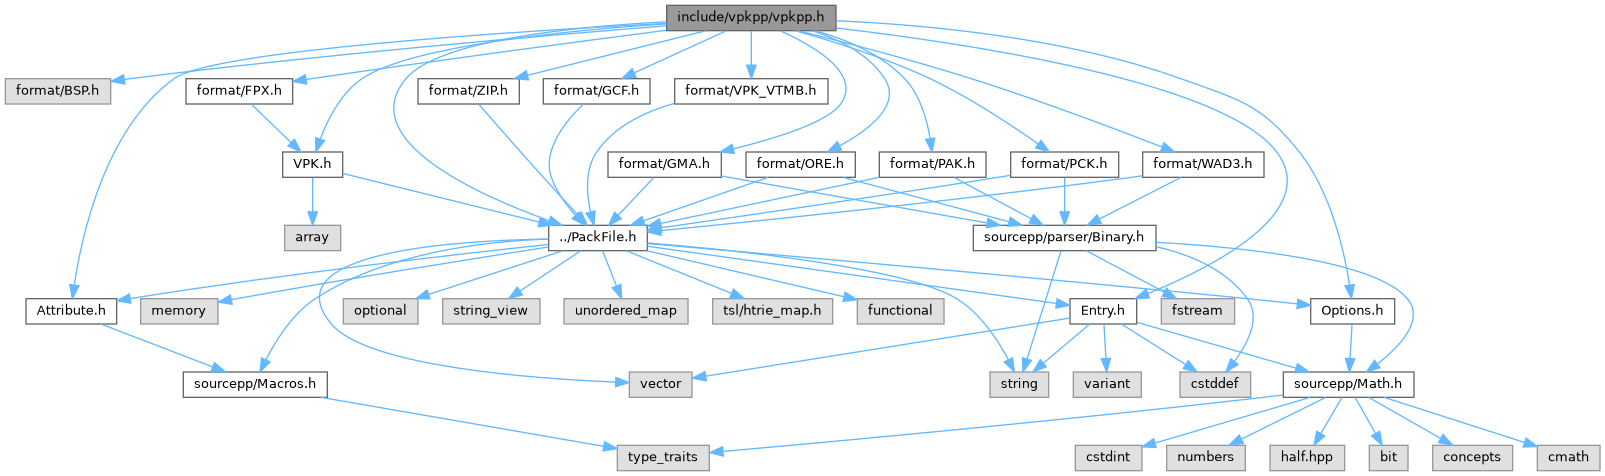
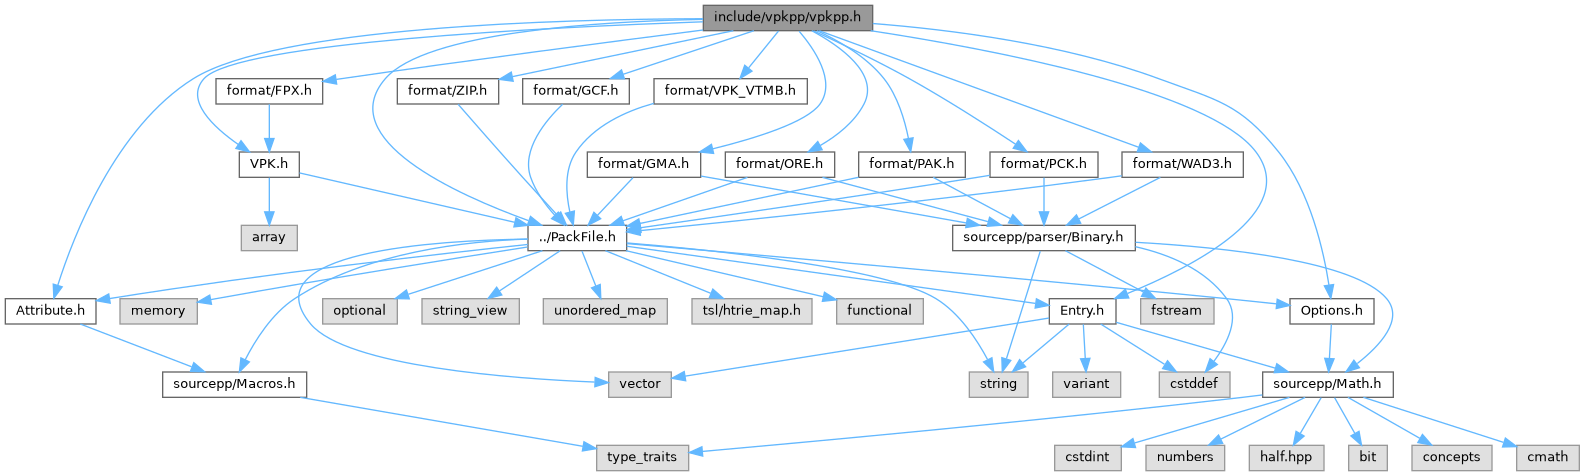
Deploying to docs from @ craftablescience/sourcepp@24a7cea87c79136fafd3792c9ff9c30157f239c5 🚀

diff --git a/d6/dae/vpkpp_8h.html b/d6/dae/vpkpp_8h.html
@@ -126,8 +126,7 @@ $(document).ready(function(){initNavTree('d6/dae/vpkpp_8h.html','../../'); initR
   <div class="headertitle"><div class="title">vpkpp.h File Reference</div></div>
 </div><!--header-->
 <div class="contents">
-<div class="textblock"><code>#include &quot;format/BSP.h&quot;</code><br />
-<code>#include &quot;<a class="el" href="../../dd/d63/FPX_8h_source.html">format/FPX.h</a>&quot;</code><br />
+<div class="textblock"><code>#include &quot;<a class="el" href="../../dd/d63/FPX_8h_source.html">format/FPX.h</a>&quot;</code><br />
 <code>#include &quot;<a class="el" href="../../df/d32/GCF_8h_source.html">format/GCF.h</a>&quot;</code><br />
 <code>#include &quot;<a class="el" href="../../d1/dbf/GMA_8h_source.html">format/GMA.h</a>&quot;</code><br />
 <code>#include &quot;<a class="el" href="../../dc/ddf/ORE_8h_source.html">format/ORE.h</a>&quot;</code><br />
@@ -146,44 +145,43 @@ Include dependency graph for vpkpp.h:</div>
 <div class="dyncontent">
 <div class="center"><img src="../../dd/de2/vpkpp_8h__incl.png" border="0" usemap="#ainclude_2vpkpp_2vpkpp_8h" alt=""/></div>
 <map name="ainclude_2vpkpp_2vpkpp_8h" id="ainclude_2vpkpp_2vpkpp_8h">
-<area shape="rect" title=" " alt="" coords="667,5,836,31"/>
-<area shape="rect" title=" " alt="" coords="5,79,111,104"/>
-<area shape="rect" href="../../dd/d63/FPX_8h.html" title=" " alt="" coords="186,79,293,104"/>
-<area shape="rect" href="../../d3/d5a/VPK_8h.html" title=" " alt="" coords="283,152,343,177"/>
-<area shape="rect" href="../../d3/df4/PackFile_8h.html" title=" " alt="" coords="549,225,647,251"/>
-<area shape="rect" href="../../d4/d08/Attribute_8h.html" title=" " alt="" coords="26,299,117,324"/>
-<area shape="rect" href="../../d4/d42/Entry_8h.html" title=" " alt="" coords="1070,299,1137,324"/>
-<area shape="rect" href="../../d5/d76/Options_8h.html" title=" " alt="" coords="1311,299,1395,324"/>
-<area shape="rect" href="../../df/d32/GCF_8h.html" title=" " alt="" coords="543,79,650,104"/>
-<area shape="rect" href="../../d1/dbf/GMA_8h.html" title=" " alt="" coords="608,152,721,177"/>
-<area shape="rect" href="../../dc/ddf/ORE_8h.html" title=" " alt="" coords="746,152,855,177"/>
-<area shape="rect" href="../../dc/da5/PAK_8h.html" title=" " alt="" coords="879,152,986,177"/>
-<area shape="rect" href="../../dd/dae/PCK_8h.html" title=" " alt="" coords="1011,152,1119,177"/>
-<area shape="rect" href="../../d7/d1d/VPK__VTMB_8h.html" title=" " alt="" coords="675,79,828,104"/>
-<area shape="rect" href="../../dd/d02/WAD3_8h.html" title=" " alt="" coords="1143,152,1264,177"/>
-<area shape="rect" href="../../d6/d66/ZIP_8h.html" title=" " alt="" coords="418,79,519,104"/>
-<area shape="rect" title=" " alt="" coords="285,225,341,251"/>
-<area shape="rect" title=" " alt="" coords="857,299,944,324"/>
-<area shape="rect" title=" " alt="" coords="141,299,218,324"/>
-<area shape="rect" title=" " alt="" coords="343,299,418,324"/>
-<area shape="rect" title=" " alt="" coords="990,372,1049,397"/>
-<area shape="rect" title=" " alt="" coords="443,299,540,324"/>
-<area shape="rect" title=" " alt="" coords="564,299,688,324"/>
-<area shape="rect" title=" " alt="" coords="629,372,692,397"/>
-<area shape="rect" href="../../df/d0a/Macros_8h.html" title=" " alt="" coords="183,372,327,397"/>
-<area shape="rect" title=" " alt="" coords="713,299,833,324"/>
-<area shape="rect" title=" " alt="" coords="617,445,709,471"/>
-<area shape="rect" title=" " alt="" coords="1180,372,1251,397"/>
-<area shape="rect" title=" " alt="" coords="1073,372,1141,397"/>
-<area shape="rect" href="../../db/d8a/Math_8h.html" title=" " alt="" coords="1283,372,1414,397"/>
-<area shape="rect" title=" " alt="" coords="1369,445,1408,471"/>
-<area shape="rect" title=" " alt="" coords="1433,445,1513,471"/>
-<area shape="rect" title=" " alt="" coords="1537,445,1600,471"/>
-<area shape="rect" title=" " alt="" coords="1075,445,1142,471"/>
-<area shape="rect" title=" " alt="" coords="1167,445,1245,471"/>
-<area shape="rect" title=" " alt="" coords="1270,445,1345,471"/>
-<area shape="rect" href="../../d9/db1/Binary_8h.html" title=" " alt="" coords="973,225,1156,251"/>
-<area shape="rect" title=" " alt="" coords="1161,299,1235,324"/>
+<area shape="rect" title=" " alt="" coords="703,5,873,31"/>
+<area shape="rect" href="../../dd/d63/FPX_8h.html" title=" " alt="" coords="216,79,323,104"/>
+<area shape="rect" href="../../d3/d5a/VPK_8h.html" title=" " alt="" coords="239,152,299,177"/>
+<area shape="rect" href="../../d3/df4/PackFile_8h.html" title=" " alt="" coords="528,225,627,251"/>
+<area shape="rect" href="../../d4/d08/Attribute_8h.html" title=" " alt="" coords="5,299,96,324"/>
+<area shape="rect" href="../../d4/d42/Entry_8h.html" title=" " alt="" coords="1049,299,1116,324"/>
+<area shape="rect" href="../../d5/d76/Options_8h.html" title=" " alt="" coords="1290,299,1374,324"/>
+<area shape="rect" href="../../df/d32/GCF_8h.html" title=" " alt="" coords="523,79,629,104"/>
+<area shape="rect" href="../../d1/dbf/GMA_8h.html" title=" " alt="" coords="587,152,701,177"/>
+<area shape="rect" href="../../dc/ddf/ORE_8h.html" title=" " alt="" coords="725,152,835,177"/>
+<area shape="rect" href="../../dc/da5/PAK_8h.html" title=" " alt="" coords="859,152,965,177"/>
+<area shape="rect" href="../../dd/dae/PCK_8h.html" title=" " alt="" coords="990,152,1098,177"/>
+<area shape="rect" href="../../d7/d1d/VPK__VTMB_8h.html" title=" " alt="" coords="654,79,807,104"/>
+<area shape="rect" href="../../dd/d02/WAD3_8h.html" title=" " alt="" coords="1122,152,1243,177"/>
+<area shape="rect" href="../../d6/d66/ZIP_8h.html" title=" " alt="" coords="397,79,499,104"/>
+<area shape="rect" title=" " alt="" coords="241,225,297,251"/>
+<area shape="rect" title=" " alt="" coords="837,299,923,324"/>
+<area shape="rect" title=" " alt="" coords="120,299,197,324"/>
+<area shape="rect" title=" " alt="" coords="323,299,397,324"/>
+<area shape="rect" title=" " alt="" coords="969,372,1028,397"/>
+<area shape="rect" title=" " alt="" coords="422,299,519,324"/>
+<area shape="rect" title=" " alt="" coords="543,299,667,324"/>
+<area shape="rect" title=" " alt="" coords="609,372,671,397"/>
+<area shape="rect" href="../../df/d0a/Macros_8h.html" title=" " alt="" coords="163,372,307,397"/>
+<area shape="rect" title=" " alt="" coords="692,299,812,324"/>
+<area shape="rect" title=" " alt="" coords="597,445,689,471"/>
+<area shape="rect" title=" " alt="" coords="1159,372,1230,397"/>
+<area shape="rect" title=" " alt="" coords="1053,372,1121,397"/>
+<area shape="rect" href="../../db/d8a/Math_8h.html" title=" " alt="" coords="1263,372,1393,397"/>
+<area shape="rect" title=" " alt="" coords="1349,445,1387,471"/>
+<area shape="rect" title=" " alt="" coords="1412,445,1492,471"/>
+<area shape="rect" title=" " alt="" coords="1517,445,1579,471"/>
+<area shape="rect" title=" " alt="" coords="1055,445,1121,471"/>
+<area shape="rect" title=" " alt="" coords="1146,445,1225,471"/>
+<area shape="rect" title=" " alt="" coords="1249,445,1324,471"/>
+<area shape="rect" href="../../d9/db1/Binary_8h.html" title=" " alt="" coords="953,225,1135,251"/>
+<area shape="rect" title=" " alt="" coords="1141,299,1214,324"/>
 </map>
 </div>
 </div>

diff --git a/d6/dae/vpkpp_8h_source.html b/d6/dae/vpkpp_8h_source.html
@@ -133,21 +133,20 @@ $(document).ready(function(){initNavTree('d6/dae/vpkpp_8h_source.html','../../')
 <div class="line"><a id="l00005" name="l00005"></a><span class="lineno">    5</span><span class="comment"> * include it the same way as any of the other SourcePP libraries.</span></div>
 <div class="line"><a id="l00006" name="l00006"></a><span class="lineno">    6</span><span class="comment"> */</span></div>
 <div class="line"><a id="l00007" name="l00007"></a><span class="lineno">    7</span> </div>
-<div class="line"><a id="l00008" name="l00008"></a><span class="lineno">    8</span><span class="preprocessor">#include &quot;format/BSP.h&quot;</span></div>
-<div class="line"><a id="l00009" name="l00009"></a><span class="lineno">    9</span><span class="preprocessor">#include &quot;<a class="code" href="../../dd/d63/FPX_8h.html">format/FPX.h</a>&quot;</span></div>
-<div class="line"><a id="l00010" name="l00010"></a><span class="lineno">   10</span><span class="preprocessor">#include &quot;<a class="code" href="../../df/d32/GCF_8h.html">format/GCF.h</a>&quot;</span></div>
-<div class="line"><a id="l00011" name="l00011"></a><span class="lineno">   11</span><span class="preprocessor">#include &quot;<a class="code" href="../../d1/dbf/GMA_8h.html">format/GMA.h</a>&quot;</span></div>
-<div class="line"><a id="l00012" name="l00012"></a><span class="lineno">   12</span><span class="preprocessor">#include &quot;<a class="code" href="../../dc/ddf/ORE_8h.html">format/ORE.h</a>&quot;</span></div>
-<div class="line"><a id="l00013" name="l00013"></a><span class="lineno">   13</span><span class="preprocessor">#include &quot;<a class="code" href="../../dc/da5/PAK_8h.html">format/PAK.h</a>&quot;</span></div>
-<div class="line"><a id="l00014" name="l00014"></a><span class="lineno">   14</span><span class="preprocessor">#include &quot;<a class="code" href="../../dd/dae/PCK_8h.html">format/PCK.h</a>&quot;</span></div>
-<div class="line"><a id="l00015" name="l00015"></a><span class="lineno">   15</span><span class="preprocessor">#include &quot;<a class="code" href="../../d3/d5a/VPK_8h.html">format/VPK.h</a>&quot;</span></div>
-<div class="line"><a id="l00016" name="l00016"></a><span class="lineno">   16</span><span class="preprocessor">#include &quot;<a class="code" href="../../d7/d1d/VPK__VTMB_8h.html">format/VPK_VTMB.h</a>&quot;</span></div>
-<div class="line"><a id="l00017" name="l00017"></a><span class="lineno">   17</span><span class="preprocessor">#include &quot;<a class="code" href="../../dd/d02/WAD3_8h.html">format/WAD3.h</a>&quot;</span></div>
-<div class="line"><a id="l00018" name="l00018"></a><span class="lineno">   18</span><span class="preprocessor">#include &quot;<a class="code" href="../../d6/d66/ZIP_8h.html">format/ZIP.h</a>&quot;</span></div>
-<div class="line"><a id="l00019" name="l00019"></a><span class="lineno">   19</span><span class="preprocessor">#include &quot;<a class="code" href="../../d4/d08/Attribute_8h.html">Attribute.h</a>&quot;</span></div>
-<div class="line"><a id="l00020" name="l00020"></a><span class="lineno">   20</span><span class="preprocessor">#include &quot;<a class="code" href="../../d4/d42/Entry_8h.html">Entry.h</a>&quot;</span></div>
-<div class="line"><a id="l00021" name="l00021"></a><span class="lineno">   21</span><span class="preprocessor">#include &quot;<a class="code" href="../../d5/d76/Options_8h.html">Options.h</a>&quot;</span></div>
-<div class="line"><a id="l00022" name="l00022"></a><span class="lineno">   22</span><span class="preprocessor">#include &quot;<a class="code" href="../../d3/df4/PackFile_8h.html">PackFile.h</a>&quot;</span></div>
+<div class="line"><a id="l00008" name="l00008"></a><span class="lineno">    8</span><span class="preprocessor">#include &quot;<a class="code" href="../../dd/d63/FPX_8h.html">format/FPX.h</a>&quot;</span></div>
+<div class="line"><a id="l00009" name="l00009"></a><span class="lineno">    9</span><span class="preprocessor">#include &quot;<a class="code" href="../../df/d32/GCF_8h.html">format/GCF.h</a>&quot;</span></div>
+<div class="line"><a id="l00010" name="l00010"></a><span class="lineno">   10</span><span class="preprocessor">#include &quot;<a class="code" href="../../d1/dbf/GMA_8h.html">format/GMA.h</a>&quot;</span></div>
+<div class="line"><a id="l00011" name="l00011"></a><span class="lineno">   11</span><span class="preprocessor">#include &quot;<a class="code" href="../../dc/ddf/ORE_8h.html">format/ORE.h</a>&quot;</span></div>
+<div class="line"><a id="l00012" name="l00012"></a><span class="lineno">   12</span><span class="preprocessor">#include &quot;<a class="code" href="../../dc/da5/PAK_8h.html">format/PAK.h</a>&quot;</span></div>
+<div class="line"><a id="l00013" name="l00013"></a><span class="lineno">   13</span><span class="preprocessor">#include &quot;<a class="code" href="../../dd/dae/PCK_8h.html">format/PCK.h</a>&quot;</span></div>
+<div class="line"><a id="l00014" name="l00014"></a><span class="lineno">   14</span><span class="preprocessor">#include &quot;<a class="code" href="../../d3/d5a/VPK_8h.html">format/VPK.h</a>&quot;</span></div>
+<div class="line"><a id="l00015" name="l00015"></a><span class="lineno">   15</span><span class="preprocessor">#include &quot;<a class="code" href="../../d7/d1d/VPK__VTMB_8h.html">format/VPK_VTMB.h</a>&quot;</span></div>
+<div class="line"><a id="l00016" name="l00016"></a><span class="lineno">   16</span><span class="preprocessor">#include &quot;<a class="code" href="../../dd/d02/WAD3_8h.html">format/WAD3.h</a>&quot;</span></div>
+<div class="line"><a id="l00017" name="l00017"></a><span class="lineno">   17</span><span class="preprocessor">#include &quot;<a class="code" href="../../d6/d66/ZIP_8h.html">format/ZIP.h</a>&quot;</span></div>
+<div class="line"><a id="l00018" name="l00018"></a><span class="lineno">   18</span><span class="preprocessor">#include &quot;<a class="code" href="../../d4/d08/Attribute_8h.html">Attribute.h</a>&quot;</span></div>
+<div class="line"><a id="l00019" name="l00019"></a><span class="lineno">   19</span><span class="preprocessor">#include &quot;<a class="code" href="../../d4/d42/Entry_8h.html">Entry.h</a>&quot;</span></div>
+<div class="line"><a id="l00020" name="l00020"></a><span class="lineno">   20</span><span class="preprocessor">#include &quot;<a class="code" href="../../d5/d76/Options_8h.html">Options.h</a>&quot;</span></div>
+<div class="line"><a id="l00021" name="l00021"></a><span class="lineno">   21</span><span class="preprocessor">#include &quot;<a class="code" href="../../d3/df4/PackFile_8h.html">PackFile.h</a>&quot;</span></div>
 <div class="ttc" id="aAttribute_8h_html"><div class="ttname"><a href="../../d4/d08/Attribute_8h.html">Attribute.h</a></div></div>
 <div class="ttc" id="aEntry_8h_html"><div class="ttname"><a href="../../d4/d42/Entry_8h.html">Entry.h</a></div></div>
 <div class="ttc" id="aFPX_8h_html"><div class="ttname"><a href="../../dd/d63/FPX_8h.html">FPX.h</a></div></div>
